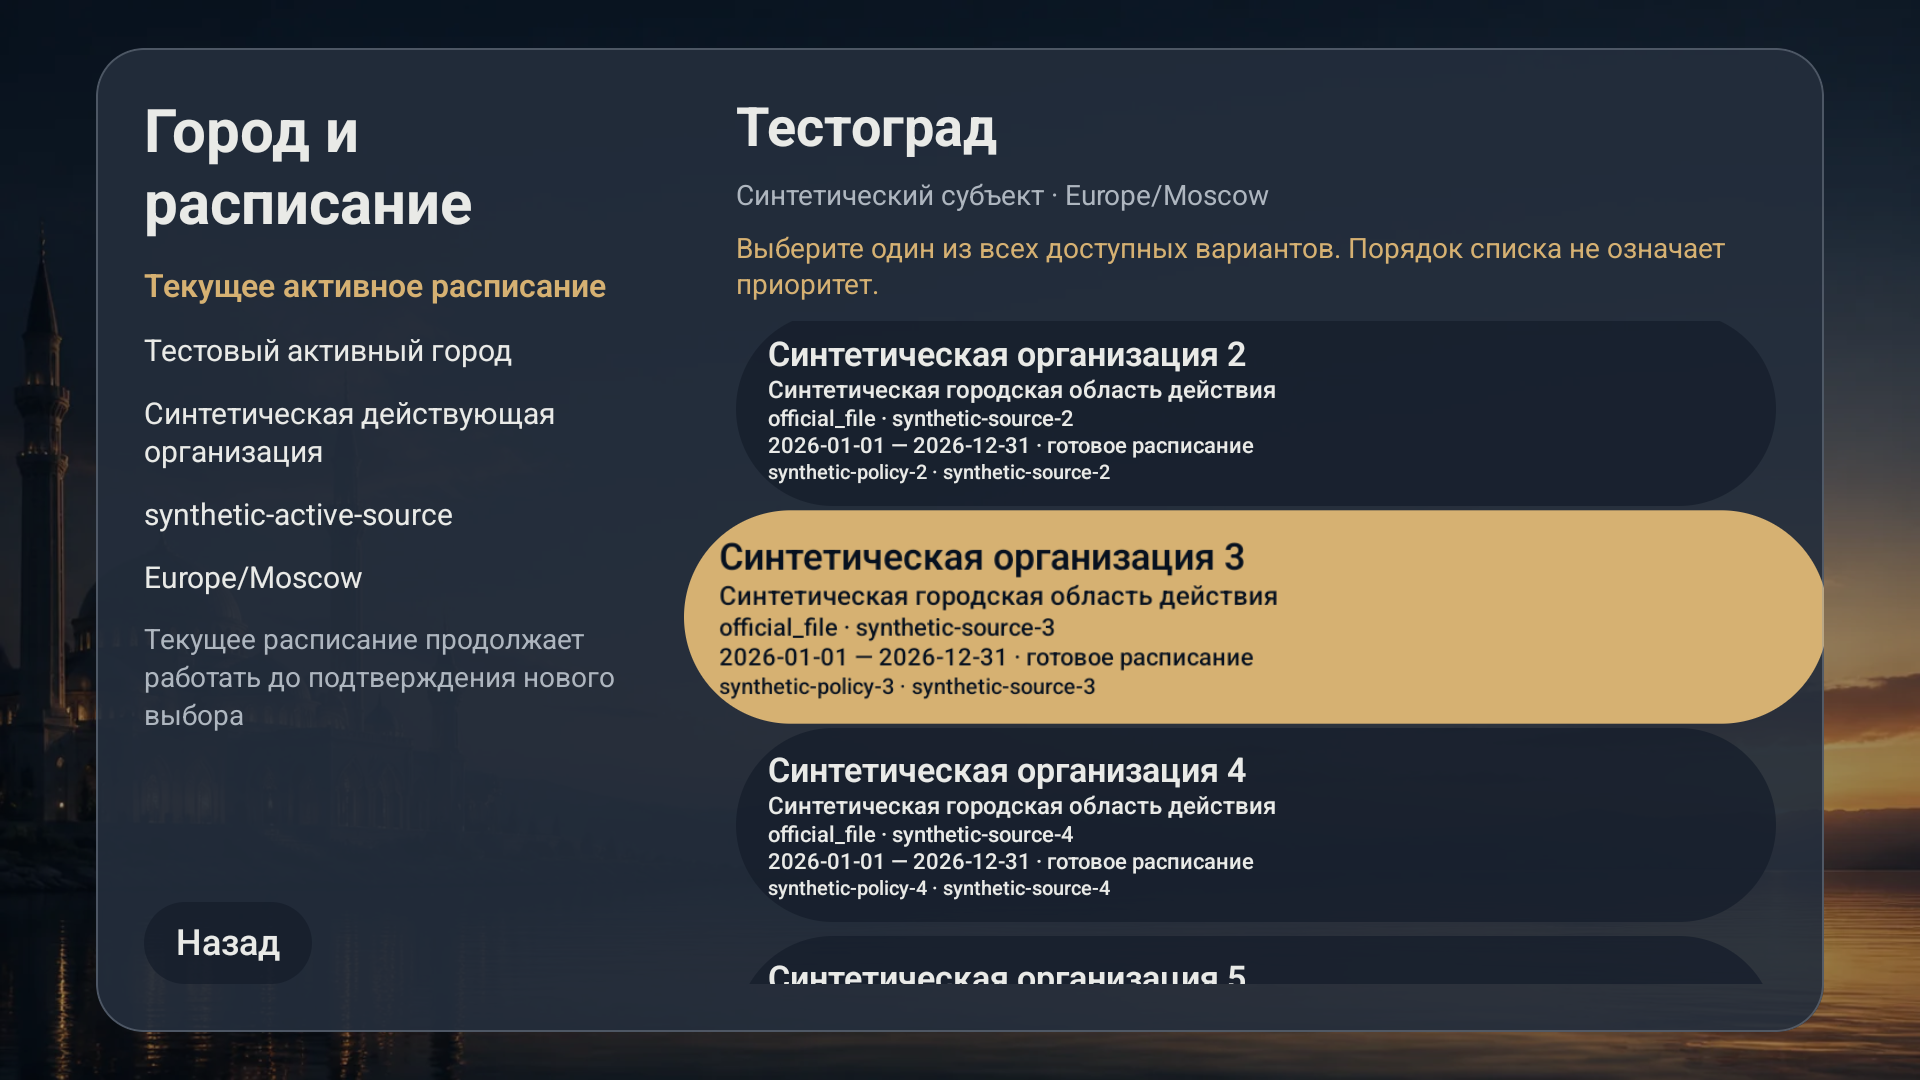
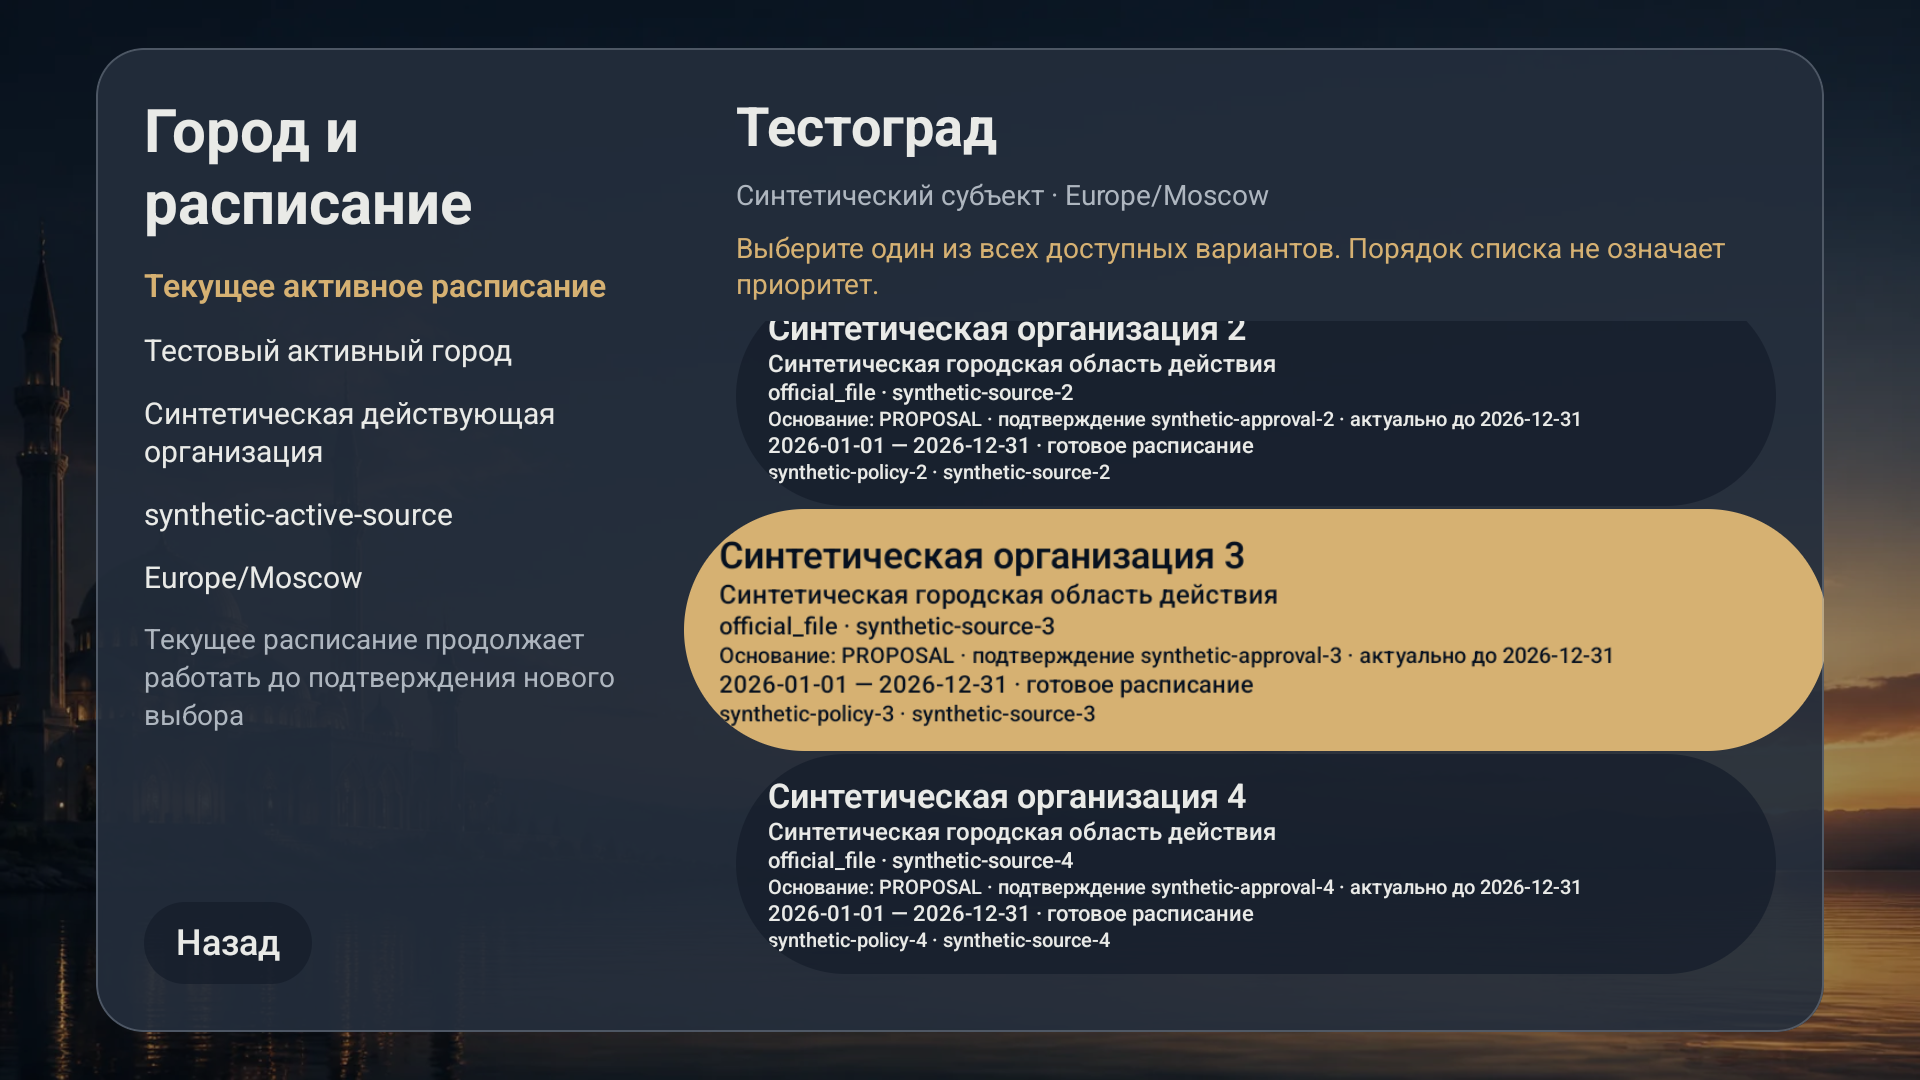
feat(android): expose schedule provenance context

Changed region(s): [[0.3438, 0.4889, 0.9375, 0.9167], [0.375, 0.275, 0.8125, 0.3972], [0.9375, 0.6111, 0.9688, 0.6417]]

diff --git a/apps/tv-android/src/test/kotlin/ru/namaztime/tv/presentation/DeviceSetupScreenUiTest.kt b/apps/tv-android/src/test/kotlin/ru/namaztime/tv/presentation/DeviceSetupScreenUiTest.kt
@@ -253,6 +253,9 @@ class DeviceSetupScreenUiTest {
         compose.onNodeWithText(item.authorityLabel).assertIsDisplayed()
         compose.onNodeWithText("Synthetic city scope 0").assertIsDisplayed()
         compose.onNodeWithText("official_file · synthetic-source-0").assertIsDisplayed()
+        compose.onNodeWithText(
+            "Основание: PROPOSAL · подтверждение synthetic-approval-0 · актуально до 2026-12-31",
+        ).assertIsDisplayed()
         assertNull(selected)
 
         compose.onNodeWithTag("$DEVICE_SETUP_CHOICE_TAG_PREFIX${item.id}")
@@ -293,6 +296,7 @@ class DeviceSetupScreenUiTest {
     }
 
     @Test
+    @OptIn(ExperimentalTestApi::class)
     fun duplicateAuthorityLabelsRemainDistinguishableByPolicyAndSource() {
         val first = scheduleChoice(0, authorityLabel = "Синтетическая организация")
         val second = scheduleChoice(1, authorityLabel = "Синтетическая организация")
@@ -310,7 +314,34 @@ class DeviceSetupScreenUiTest {
         }
 
         compose.onNodeWithText("synthetic-policy-0 · synthetic-source-0").assertIsDisplayed()
+        compose.onNodeWithTag("$DEVICE_SETUP_CHOICE_TAG_PREFIX${first.id}")
+            .assertIsFocused()
+            .performKeyInput { pressKey(Key.DirectionDown) }
+        compose.onNodeWithTag("$DEVICE_SETUP_CHOICE_TAG_PREFIX${second.id}")
+            .assertIsFocused()
         compose.onNodeWithText("synthetic-policy-1 · synthetic-source-1").assertIsDisplayed()
+    }
+
+    @Test
+    fun undatedFreshnessRemainsExplicitInsteadOfBeingOmitted() {
+        val base = scheduleChoice(0)
+        val undated = base.copy(source = base.source.copy(freshThrough = null))
+        compose.setContent {
+            NamazTvTheme {
+                DeviceScheduleSetupScreen(
+                    state = choiceState(listOf(undated)),
+                    activeSchedule = null,
+                    onQueryChanged = {},
+                    onRetrySearch = {},
+                    onCitySelected = {},
+                    onBack = {},
+                )
+            }
+        }
+
+        compose.onNodeWithText(
+            "Основание: PROPOSAL · подтверждение synthetic-approval-0 · срок актуальности не указан",
+        ).assertIsDisplayed()
     }
 
     @Test
@@ -390,6 +421,18 @@ class DeviceSetupScreenUiTest {
     @Config(sdk = [35], qualifiers = "w1280dp-h720dp-land-xxhdpi")
     fun setupFits4kDensitySafeFrame() = assertSetupFitsSafeFrame()
 
+    @Test
+    @Config(sdk = [35], qualifiers = "w1280dp-h720dp-land-mdpi")
+    fun choiceListFits720pSafeFrame() = assertChoiceSetupFitsSafeFrame()
+
+    @Test
+    @Config(sdk = [35], qualifiers = "w960dp-h540dp-land-xhdpi")
+    fun choiceListFits1080pDensitySafeFrame() = assertChoiceSetupFitsSafeFrame()
+
+    @Test
+    @Config(sdk = [35], qualifiers = "w1280dp-h720dp-land-xxhdpi")
+    fun choiceListFits4kDensitySafeFrame() = assertChoiceSetupFitsSafeFrame()
+
     private fun assertSetupFitsSafeFrame() {
         compose.setContent {
             NamazTvTheme {
@@ -421,6 +464,35 @@ class DeviceSetupScreenUiTest {
         val screen = compose.onNodeWithTag(DEVICE_SETUP_SCREEN_TAG)
             .assertIsDisplayed()
             .getUnclippedBoundsInRoot()
+        val rootWidth = root.right - root.left
+        val rootHeight = root.bottom - root.top
+        assert(screen.left - root.left >= rootWidth * 0.04f)
+        assert(root.right - screen.right >= rootWidth * 0.04f)
+        assert(screen.top - root.top >= rootHeight * 0.04f)
+        assert(root.bottom - screen.bottom >= rootHeight * 0.04f)
+    }
+
+    private fun assertChoiceSetupFitsSafeFrame() {
+        compose.setContent {
+            NamazTvTheme {
+                DeviceScheduleSetupScreen(
+                    state = choiceState(List(8) { scheduleChoice(it) }),
+                    activeSchedule = activeScheduleSummary(),
+                    onQueryChanged = {},
+                    onRetrySearch = {},
+                    onCitySelected = {},
+                    onBack = {},
+                )
+            }
+        }
+
+        val root = compose.onRoot().getUnclippedBoundsInRoot()
+        val screen = compose.onNodeWithTag(DEVICE_SETUP_SCREEN_TAG)
+            .assertIsDisplayed()
+            .getUnclippedBoundsInRoot()
+        compose.onNodeWithTag(DEVICE_SETUP_CHOICE_LIST_TAG).assertIsDisplayed()
+        compose.onNodeWithTag("$DEVICE_SETUP_CHOICE_TAG_PREFIX${scheduleChoice(0).id}")
+            .assertIsDisplayed()
         val rootWidth = root.right - root.left
         val rootHeight = root.bottom - root.top
         assert(screen.left - root.left >= rootWidth * 0.04f)

diff --git a/apps/tv-android/src/main/kotlin/ru/namaztime/tv/presentation/DeviceSetupScreen.kt b/apps/tv-android/src/main/kotlin/ru/namaztime/tv/presentation/DeviceSetupScreen.kt
@@ -642,6 +642,10 @@ private fun ScheduleChoiceButton(
     firstChoiceRequester: FocusRequester?,
     compact: Boolean,
 ) {
+    val evidenceLabels = choice.authorities
+        .map { it.evidenceLabel }
+        .distinct()
+        .joinToString(", ")
     Button(
         onClick = {
             if (choice.requestable && !choice.executable && !submitting) onClick()
@@ -683,6 +687,23 @@ private fun ScheduleChoiceButton(
                     choice.source.id,
                 ),
                 fontSize = if (compact) 11.sp else 14.sp,
+                maxLines = 1,
+                overflow = TextOverflow.Ellipsis,
+            )
+            Text(
+                text = choice.source.freshThrough?.let { freshThrough ->
+                    appString(
+                        R.string.device_setup_choice_provenance_fresh,
+                        evidenceLabels,
+                        choice.approvalId,
+                        freshThrough.toString(),
+                    )
+                } ?: appString(
+                    R.string.device_setup_choice_provenance_undated,
+                    evidenceLabels,
+                    choice.approvalId,
+                ),
+                fontSize = if (compact) 10.sp else 12.sp,
                 maxLines = 1,
                 overflow = TextOverflow.Ellipsis,
             )

diff --git a/docs/evidence/t041-android-tv-setup/README.md b/docs/evidence/t041-android-tv-setup/README.md
@@ -21,7 +21,7 @@ Environment:
 - package: `ru.namaztime.tv.debug`;
 - version: code `3`, name `0.4.0-pilot-local`;
 - debug APK SHA-256 for this capture run:
[2 lines of base64/hex data omitted]
 
 The APK is a local build artifact and is intentionally not stored in Git.
 
@@ -53,8 +53,9 @@ the focused node where noted below.
   with different federal subjects, settlement types and IANA timezones. No row
   is activated by rendering it.
 - [One choice](one-choice.png) identifies its synthetic authority, scope,
-  source, effective range and policy/source identity. The gold surface means
-  D-pad focus; it is not a preferred authority or an automatic selection.
+  source, evidence label, approval, freshness, effective range and
+  policy/source identity. The gold surface means D-pad focus; it is not a
+  preferred authority or an automatic selection.
 - [Multiple choices](multiple-choices.png) renders the complete five-item
   synthetic set in neutral order. [Scrolled choices](multiple-choices-scrolled.png)
   records focus on the third item after two `Down` presses and shows the next
@@ -83,8 +84,8 @@ tests.
[11 lines of base64/hex data omitted]
